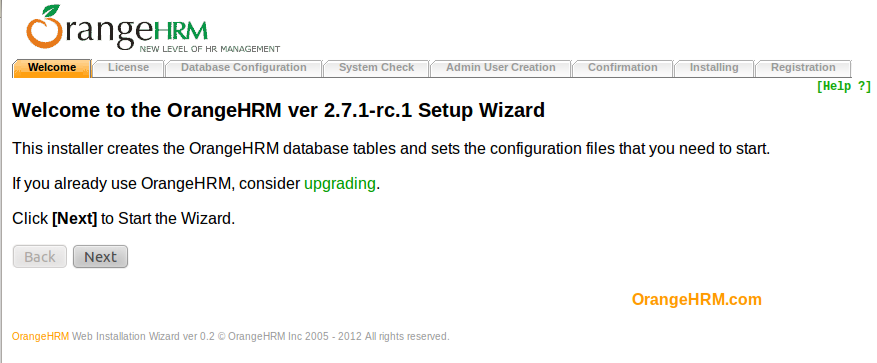
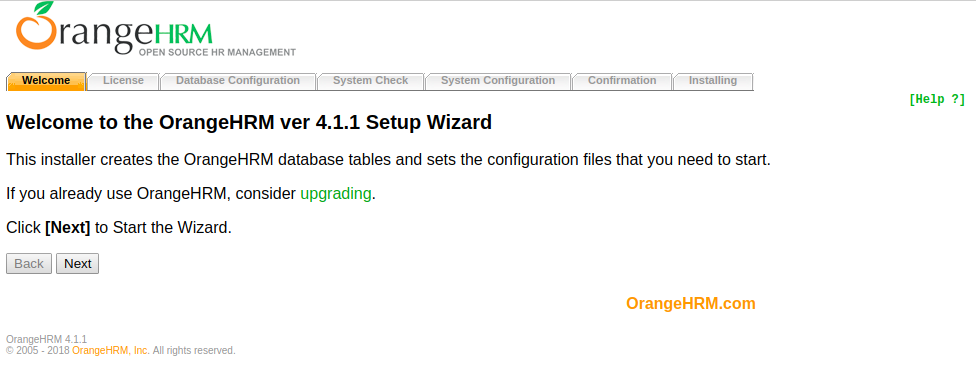
OHRM-79:updating help link

diff --git a/installer/guide/index.html b/installer/guide/index.html
@@ -55,10 +55,10 @@
 		<li><a href="#license">License Acceptance</a></li>
 		<li><a href="#systemChk">System Check</a></li>
 		<li><a href="#DBCreation">Database Creation</a></li>
-		<li><a href="#adminUsrCrt">Admin User Creation</a></li>
+		<li><a href="#symstemConfiguration">System Configuration</a></li>
 		<li><a href="#confirm">Confirmation</a></li>
 		<li><a href="#installing">Installing</a></li>
-		<li><a href="#finalize">Finalize</a></li>
+		<li><a href="#login">Login</a></li>
 	</ol>
 	</li>
 </ol>
@@ -434,20 +434,20 @@ OrangeHRM are stored in plain text, it would be a security threat to
 have OrangeHRM use Privileged user account.</p>
 </div>
 
-<h3 id="adminUsrCrt">Admin User Creation</h3>
-
-<div class="screenshot"><img src="../images/admincreation.png"
-	alt="Please refer the INSTALL.HTM in OrangeHRM source for pictures"
-	width="575" height="325" /></div>
-
-<p>Type in the Admin Username, Password and Confirm Admin User
-Password.<br />
-Click <b>[Next]</b> button in Admin User Creation Screen to continue.</p>
-
 <div class="navigate"><a href="javascript:window.history.go(-1);"><img
 	src="../images/back.gif" width="15" height="15" border="0" class="back" /></a>
 <a href="#"><img src="../images/top.gif" width="15" height="15"
 	border="0" class="top" /></a></div>
+
+<h3 id="symstemConfiguration">System Configuration</h3>
+
+<div class="screenshot"><img src="../images/systemConfiguration.png"
+	alt="Please refer the INSTALL.HTM in OrangeHRM source for pictures"
+	width="797" height="400" /></div>
+
+<p>Enter the relevant information about your Organization
+	and Admin User.<br />
+	Click <b>[Next]</b> in System COnfiguration screen to continue.</p>
 
 <h3 id="confirm">Confirmation</h3>
 
@@ -527,6 +527,7 @@ name for the database.</p>
 	src="../images/back.gif" width="15" height="15" border="0" class="back" /></a>
 <a href="#"><img src="../images/top.gif" width="15" height="15"
 	border="0" class="top" /></a></div>
+	<p>After clicking Next you will be redirected to the login page</p>
 <br />
 <br />
 
@@ -541,13 +542,6 @@ name for the database.</p>
 	border="0" class="top" /></a></div>
 <br />
 
-<h3 id="finalize">Final</h3>
-
-<div class="screenshot"><img src="../images/finalize.png"
-	alt="Please refer the INSTALL.HTM in OrangeHRM source for pictures"
-	width="797" height="140" /></div>
-
-	<p>After clicking Finish you will be redirected to the login page</p>
 <!--<p>You can also provide your comments.
 <p>
 <p>If you want to receive updates or newsletter select the tick box
@@ -566,8 +560,8 @@ to skip this step and you will not be registered.</p>
 </div>
 <br />-->
 
-<h3>Login into OrangeHRM</h3>
-<p>Now use the Admin Username and Password you have given earlier to
+<h3 id="login">Login into OrangeHRM</h3>
+<p>Now click LOGIN to
 login into OrangeHRM.</p>
 
 <div class="screenshot"><img src="../images/login.png"
@@ -580,10 +574,9 @@ login into OrangeHRM.</p>
 	border="0" class="top" /></a></div>
 
 </div>
-<div id="footer">OrangeHRM ver <ins class="version"></ins><br/>
-&copy; 2005 - <ins id="copyrightYear"></ins> <a href="http://www.orangehrm.com" target="_blank">OrangeHRM, Inc</a>. All rights reserved.
+<div id="footer">OrangeHRM ver 4.0.1<br/>
+&copy; 2005 - 2013 <a href="http://www.orangehrm.com" target="_blank">OrangeHRM, Inc</a>. All rights reserved.
 </div>
 </div>
 </body>
-<script type="text/javascript" src="./index.js"></script>
 </html>
